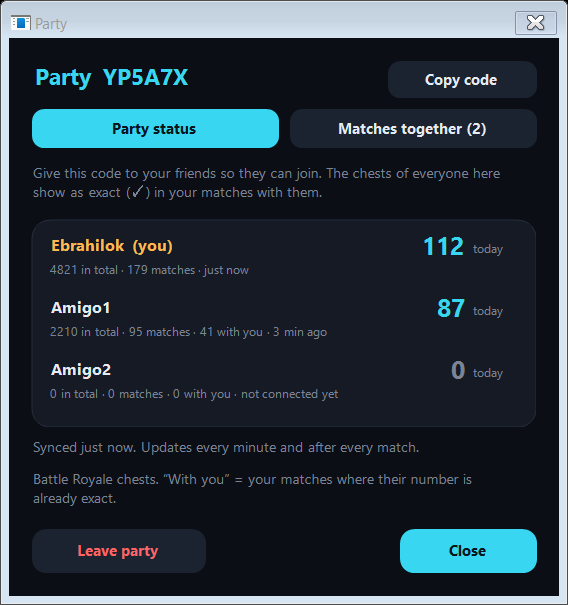
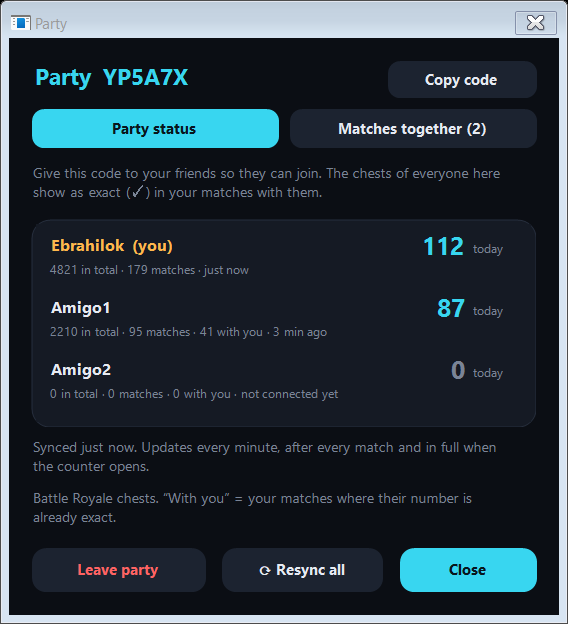
Party 2.2.1: sincronización completa al abrir y botón Resincronizar (las partidas pasadas se corrigen si el dato no coincide)

diff --git a/src/ChestCounter/Party.cs b/src/ChestCounter/Party.cs
@@ -98,6 +98,12 @@ public sealed class Party
     private Task? _inFlight;
     private DateTime _nextSync = DateTime.MinValue;
     private DateTime _nextAnnotate = DateTime.MinValue;
+
+    /// <summary>
+    /// La próxima sincronización es completa: sube todas tus partidas y descarga todas las de la party (no solo lo
+    /// cambiado), así cualquier número que no coincida con el del servidor se corrige. Se hace al abrir el contador.
+    /// </summary>
+    private volatile bool _fullSync = true;
     private volatile bool _annotate = true;
     private volatile string? _error;
     private Dictionary<string, int> _together = new();
@@ -124,6 +130,13 @@ public sealed class Party
     public bool Joined { get { lock (_gate) return _state.Joined; } }
 
     /// <summary>Pide sincronizar en el próximo ciclo (partida nueva, botón «Actualizar»).</summary>
+    /// <summary>Botón «Resincronizar todo»: vuelve a subir y bajar todas las partidas ya.</summary>
+    public void ResyncAll()
+    {
+        _fullSync = true;
+        Kick();
+    }
+
     public void Kick()
     {
         _nextSync = DateTime.MinValue;
@@ -211,14 +224,16 @@ public sealed class Party
         if ((_inFlight == null || _inFlight.IsCompleted) && DateTime.UtcNow >= _nextSync)
         {
             _nextSync = DateTime.UtcNow + Interval;
-            var uploads = OwnMatches(data, s);
-            _inFlight = Task.Run(() => SyncAsync(s, uploads));
+            var full = _fullSync;
+            _fullSync = false;
+            var uploads = OwnMatches(data, s, full);
+            _inFlight = Task.Run(() => SyncAsync(s, uploads, full));
         }
         return changed;
     }
 
     /// <summary>Tus partidas que aún no están en el servidor (o que cambiaron, por ejemplo al reanalizarlas).</summary>
-    private static List<(string Sig, UploadMatch Body)> OwnMatches(TrackerData data, PartyState s)
+    private static List<(string Sig, UploadMatch Body)> OwnMatches(TrackerData data, PartyState s, bool all = false)
     {
         var list = new List<(string, UploadMatch)>();
         foreach (var m in data.Matches)
@@ -230,7 +245,7 @@ public sealed class Party
             var kinds = OwnKinds(m);
             var start = m.MatchStartUtc is { } t ? DateTime.SpecifyKind(t, DateTimeKind.Utc) : (DateTime?)null;
             var sig = $"{m.ChestsOpened}|{start:O}|{m.Placement}|{m.Playlist}|{string.Join(",", kinds.OrderBy(k => k.Key, StringComparer.Ordinal).Select(k => k.Key + "=" + k.Value))}";
-            if (s.Uploaded.TryGetValue(m.SessionId, out var done) && done == sig)
+            if (!all && s.Uploaded.TryGetValue(m.SessionId, out var done) && done == sig)
             {
                 continue;
             }
@@ -254,11 +269,13 @@ public sealed class Party
         return kinds;
     }
 
-    private async Task SyncAsync(PartyState s, List<(string Sig, UploadMatch Body)> uploads)
+    private async Task SyncAsync(PartyState s, List<(string Sig, UploadMatch Body)> uploads, bool full = false)
     {
         try
         {
-            var since = s.Since;
+            // Completa: sin «since», el servidor devuelve todas las partidas y se sustituye la copia local entera.
+            var since = full ? null : s.Since;
+            var replace = full;
             var chunks = uploads.Chunk(ChunkSize).ToList();
             if (chunks.Count == 0) chunks.Add(Array.Empty<(string, UploadMatch)>());
             for (var i = 0; i < chunks.Count; i++)
@@ -281,6 +298,7 @@ public sealed class Party
                         _error = L.T("Ya no estás en la party (te sacaron o se borró).", "You are no longer in the party.");
                         return;
                     }
+                    _fullSync |= full; // sin conexión: la próxima vez, completa otra vez
                     _error = error;
                     return;
                 }
@@ -292,7 +310,8 @@ public sealed class Party
                     {
                         cur.Uploaded[u.Body.SessionId] = u.Sig;
                     }
-                    var byKey = cur.Matches.ToDictionary(x => x.MemberId + "|" + x.SessionId);
+                    var byKey = replace ? new Dictionary<string, PartyMatch>() : cur.Matches.ToDictionary(x => x.MemberId + "|" + x.SessionId);
+                    replace = false;
                     foreach (var x in result.Matches)
                     {
                         byKey[x.MemberId + "|" + x.SessionId] = x;
@@ -303,7 +322,6 @@ public sealed class Party
                     cur.LastSyncUtc = DateTime.UtcNow;
                     // Solo con el último trozo: los anteriores ya trajeron todo lo cambiado hasta su hora.
                     if (i == chunks.Count - 1) cur.Since = result.ServerTime;
-                    since = cur.Since ?? since;
                     SaveState();
                 }
                 _error = null;
@@ -312,6 +330,7 @@ public sealed class Party
         }
         catch (Exception ex)
         {
+            _fullSync |= full; // no terminó: se repite completa
             _error = ex.Message;
             ErrorLog.Write("Party: sincronizar", ex);
         }

diff --git a/src/ChestCounter/PartyDialog.cs b/src/ChestCounter/PartyDialog.cs
@@ -260,7 +260,7 @@ public sealed class PartyDialog : Form
         y += card.Height + S(8);
 
         var status = view.Error ?? (view.Syncing ? L.T("Sincronizando…", "Syncing…")
-            : view.LastSyncUtc is { } last ? L.F("Sincronizado {0}. Se actualiza cada minuto y al terminar cada partida.", "Synced {0}. Updates every minute and after every match.", Ago(last))
+            : view.LastSyncUtc is { } last ? L.F("Sincronizado {0}. Se actualiza cada minuto, al terminar cada partida y entero al abrir el contador.", "Synced {0}. Updates every minute, after every match and in full when the counter opens.", Ago(last))
             : L.T("Conectando…", "Connecting…"));
         y = Paragraph(y, status, view.Error != null ? Theme.Coral : Theme.Muted);
         y = Paragraph(y, L.T("Cofres de partidas de Battle Royale. «Contigo» = partidas tuyas en las que su número ya es exacto.",
@@ -274,7 +274,16 @@ public sealed class PartyDialog : Form
                 "Party", MessageBoxButtons.YesNo, MessageBoxIcon.Question);
             if (sure == DialogResult.Yes) await Run(() => _monitor.Party.LeaveAsync());
         };
-        return Buttons(y + S(6), leave);
+        // Vuelve a subir todas tus partidas y a bajar todas las de la party: corrige cualquier número que no coincida.
+        var resync = new PillButton { Text = "⟳ " + L.T("Resincronizar", "Resync all"), Size = Z(130, 36), Radius = S(11), Enabled = !_busy && !view.Syncing };
+        resync.Click += (_, _) =>
+        {
+            _monitor.Party.ResyncAll();
+            _monitor.RequestPublish();
+            resync.Enabled = false;
+            resync.Text = L.T("Sincronizando…", "Syncing…");
+        };
+        return Buttons(y + S(6), leave, resync);
     }
 
     // ---- Partidas juntos: cada partida con los cofres de cada uno -----------------------------------------------------
@@ -387,7 +396,7 @@ public sealed class PartyDialog : Form
         _monitor.RequestPublish();
     }
 
-    private int Buttons(int y, PillButton? left)
+    private int Buttons(int y, PillButton? left, PillButton? middle = null)
     {
         if (_error != null)
         {
@@ -401,6 +410,11 @@ public sealed class PartyDialog : Form
         {
             left.Location = new Point(S(Pad), y);
             _body.Controls.Add(left);
+        }
+        if (middle != null)
+        {
+            middle.Location = new Point(S(W - Pad - 110 - 12 - 130), y);
+            _body.Controls.Add(middle);
         }
         var close = new PillButton
         {

diff --git a/README.md b/README.md
@@ -152,6 +152,7 @@ Botón **Party** de la ventana principal. Uno **crea** la party y pasa el códig
 
 - Cada miembro **sube los cofres de su propio replay** (los suyos son exactos, como los tuyos) a un servidor común, al terminar cada partida y cada minuto mientras el contador está abierto. Al entrar se suben también las partidas que ya tenías.
 - En las partidas en las que jugasteis juntos, el compañero que está en la party sale con su número **exacto** y una **✓** («✓ 19») en vez de «11+». Si todo el equipo está en la party, el total del equipo también es exacto («equipo ✓ 73»). Los compañeros aleatorios siguen con su mínimo observado («4+»).
+- **Las partidas pasadas también se corrigen**: al entrar se sube todo tu historial, y en tus partidas antiguas con un miembro su «N+» pasa a su número exacto. Si el número de alguien cambia (por ejemplo, al reanalizar una partida), se vuelve a subir y el dato anterior se sustituye por el actual. Cada vez que abres el contador se hace una **sincronización completa** (sube todas tus partidas y baja todas las de la party), así cualquier dato que no coincida se corrige solo; también con el botón **⟳ Resincronizar**.
 - La partida se reconoce por su id de sesión (el mismo para todos los jugadores de esa partida) y, si no coincide, por la hora de inicio (±90 s).
 - La ventana **Party** tiene dos pestañas:
   - **Estado de la party**: cada miembro con sus cofres de **hoy**, en **total**, cuántas partidas subió, en cuántas tuyas su número ya es exacto y cuándo se conectó por última vez.

diff --git a/README.en.md b/README.en.md
@@ -147,6 +147,7 @@ To get a teammate's exact figures, they'd have to run the counter with **their o
 
 - Every member **uploads the chests from their own replay** (exact, like yours) to a shared server, after every match and every minute while the counter is open. Matches you already had are uploaded when you join.
 - In the matches you played together, a teammate who is in the party shows their **exact** number with a **✓** ("✓ 19") instead of "11+". If the whole team is in the party, the team total is exact too ("team ✓ 73"). Random teammates keep their observed minimum ("4+").
+- **Past matches are corrected too**: your whole history is uploaded when you join, and in your old matches with a member their "N+" becomes their exact number. If someone's number changes (for example, when a match is re-analyzed), it's uploaded again and the old value is replaced by the current one. Every time you open the counter it does a **full sync** (uploads all your matches and downloads all the party's), so any mismatch fixes itself; the **⟳ Resync all** button does it too.
 - The match is recognised by its session id (the same for every player in it) and, failing that, by its start time (±90 s).
 - The **Party** window has two tabs:
   - **Party status**: every member with their chests **today**, in **total**, how many matches they uploaded, in how many of yours their number is already exact and when they last connected.
